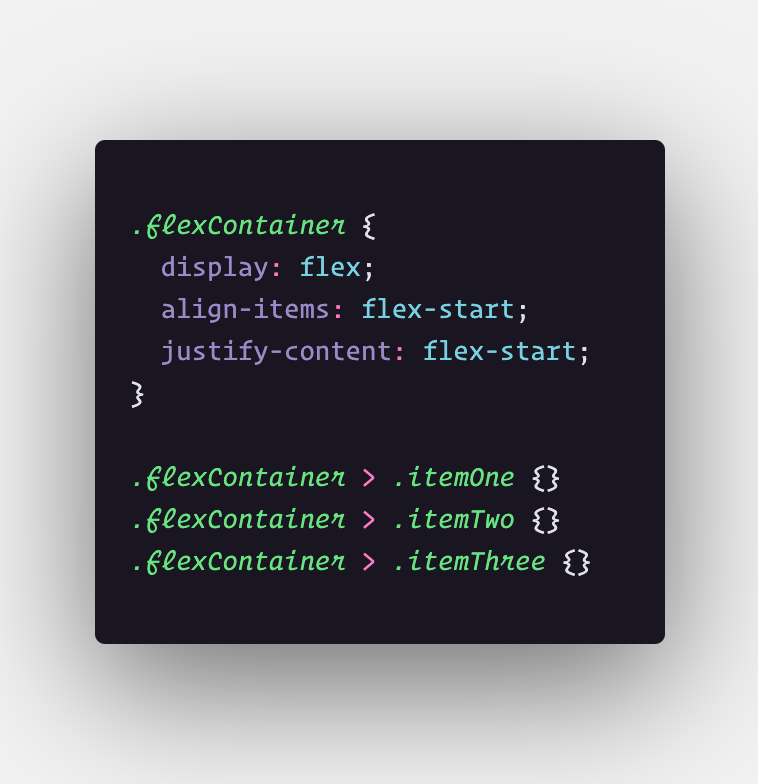
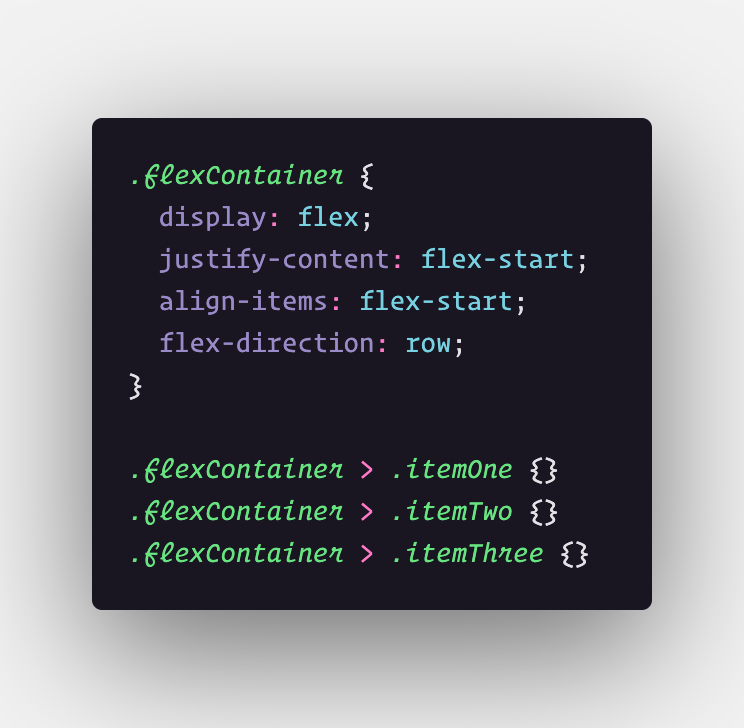
add alignt-items and justify-content sections

diff --git a/Guia-FlexBox/index.html b/Guia-FlexBox/index.html
@@ -5,7 +5,7 @@
     <meta http-equiv="X-UA-Compatible" content="IE=edge">
     <meta name="viewport" content="width=device-width, initial-scale=1.0">
     <link rel="stylesheet" href="./style.css">
-    <title>Document</title>
+    <title>Guia Básico de FlexBox</title>
   </head>
   <body>
     <div class="glassBar">
@@ -21,6 +21,12 @@
         </li>
         <li>
           <a href="#JustifyContent" class="navLink">Justify Content</a>
+        </li>
+        <li>
+          <a href="#AlignItems" class="navLink">Align Items</a>
+        </li>
+        <li>
+          <a href="#FlexDirection" class="navLink">Flex Direction</a>
         </li>
       </ul>
     </div>
@@ -82,7 +88,7 @@
         </p>
       </section>
       <section class="contentTopic" id="ValoresDefault">
-        <h2 class="topicTitle">Valores <em>default</em></h2>
+        <h2 class="topicTitle">Valores Padrão <em>default</em></h2>
         <p class="defaultText">
           Ao atribuir o valor <em>display: flex</em> a um elemento ele automaticamente agrupa todos os elementos filhos (agora <em>Flex Items</em>) no canto <strong>superior esquerdo</strong>,
           alinhados da esquerda para a direita na ordem em quem estão declarados dentro do container. Por ora vamos guardar que:<br />
@@ -113,7 +119,8 @@
           Note que não é necessário aplicar nenhuma propriedade aos elementos filhos (<em>flex-items</em>) para que eles adotem os padrões de
           posicionamento atribuídos ao elemento pai (<em>flex-container</em>)
           <span class="observation"><em>Mais uma coisa ...</em></span>
-          Lembra que agora há pouco falamos sobre <em>Valores padrão</em> e aplicação automática dos valores de <em>flex-start</em>, pois bem, a fins de entendimento ... 
+          Lembra que agora há pouco falamos sobre <em>Valores padrão</em> e aplicação automática dos valores de <em>flex-start</em> na direçao de uma linha (row) ? <br /> 
+          Pois bem, a fins de entendimento ... 
           Se aplicarmos manualmente estes mesmos valores não teremos retorno diferente do atual, pois os <em>valores default</em> já estão aplicados. Exemplo abaixo:
         </p>
         <div class="codeAndExampleContainer flex justify-evenly align-center">
@@ -206,7 +213,65 @@
               </div>
             </div>
           </li>
+          <li>
+            <em>space-evenly</em> - Distribui os elementos filhos no eixo X dividindo todo espaço horizontal e criando intervalos iguais entre eles mesmos e as extremidades do container, ou seja distribui os elementos filhos uniformemente na área disponível (<em>evenly</em>: uniformemente).
+            <div class="codeAndExampleContainer flex justify-evenly align-center direction-column">
+              <div class="flex align-center justify-center">
+                <img src="./assets/flexex6.png" alt="Exemplo de display: flex">
+              </div>
+              <div class="containerExample flex verticalMediumMargin noPadding">
+                <div class="flexContainerJustifySpaceEvenly example">
+                  <div class="itemOne">Item 1</div>
+                  <div class="itemTwo">Item 2</div>
+                  <div class="itemThree">Item 3</div>
+                </div>
+              </div>
+            </div>
+          </li>
         </ul>
+      </section>
+      <section class="contentTopic" id="AlignItems">
+        <h2 class="topicTitle">O Align Items</h2>
+        <p class="defaultText">
+          O <em>aling-items</em> atua justamente como o significado da propriedade sugere. Ele <strong>ALINHA</strong> os elementos em pontos específicos do eixo Y (orientação vertical).
+          Existem alguns valores que podem ser atribuídos ao <em>aling-items</em>, mas por ora, vamos focar nos principais que são:
+        </p>
+        <ul class="defaultList">
+          <li>
+            <em>flex-start</em> - Como vimos anteriormente ele agrupa os <em>flex-items</em> no ponto inicial do eixo Y (o canto esquerdo quem olha para a tela. Exemplo na sessão <a href="#ValoresDefault" class="navLink">"Valores Padrão"</a>)
+          </li>
+          <li>
+            <em>center</em> - Centraliza os elementos filhos no eixo Y
+          </li>
+          <li>
+            <em>flex-end</em> - Agrupa os elementos filhos no final do eixo Y
+          </li>
+        </ul>
+        <span class="quotes"><em>Abaixo, exemplos de aplicação de <em>aling-items: center;</em> e <em>aling-items: flex-end;</em> respectivamente:</em></span>
+        <div class="codeAndExampleContainer flex justify-evenly align-center">
+          <div class="codeBlock flex align-center justify-center">
+            <img src="./assets/flexex7.png" alt="Exemplo de display: flex">
+          </div>
+          <div class="exampleBlock flex">
+            <div class="flexContainer flexContainerAlignCenter">
+              <div class="itemOne">Item 1</div>
+              <div class="itemTwo">Item 2</div>
+              <div class="itemThree">Item 3</div>
+            </div>
+          </div>
+        </div>
+        <div class="codeAndExampleContainer flex justify-evenly align-center verticalMediumMargin">
+          <div class="codeBlock flex align-center justify-center">
+            <img src="./assets/flexex7.png" alt="Exemplo de display: flex">
+          </div>
+          <div class="exampleBlock flex">
+            <div class="flexContainer flexContainerAlignEnd">
+              <div class="itemOne">Item 1</div>
+              <div class="itemTwo">Item 2</div>
+              <div class="itemThree">Item 3</div>
+            </div>
+          </div>
+        </div>
       </section>
       <section class="contentTopic">
         Lorem ipsum dolor sit amet consectetur, adipisicing elit. Totam in harum necessitatibus ad facilis dolore esse aliquam repudiandae maiores nostrum, repellat aperiam perspiciatis fugiat blanditiis labore, alias voluptatibus pariatur non.

diff --git a/Guia-FlexBox/style.css b/Guia-FlexBox/style.css
@@ -477,6 +477,21 @@ de que não é necessário atribuir propriedades aos elementos filhos (flex-item
   justify-content: space-around;
 }
 
+.flexContainerJustifySpaceEvenly {
+  display: flex;
+  justify-content: space-evenly;
+}
+
+.flexContainerAlignCenter {
+  display: flex;
+  align-items: center;
+}
+
+.flexContainerAlignEnd {
+  display: flex;
+  align-items: flex-end;
+}
+
 .flexContainer > .itemOne {}
 .flexContainer > .itemTwo {}
 .flexContainer > .itemThree {}
